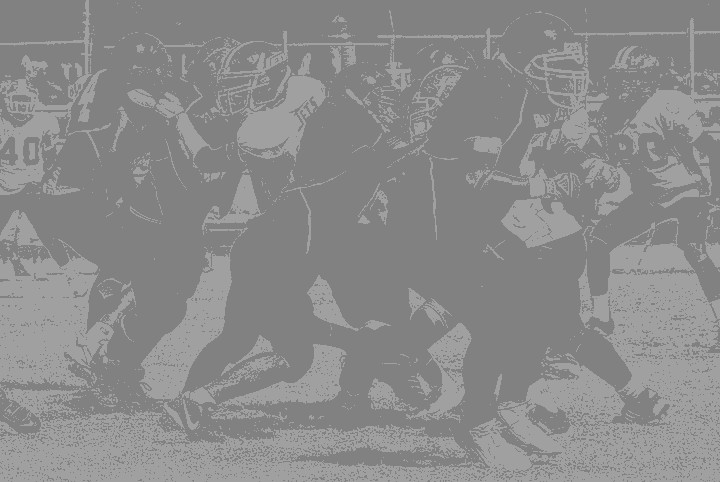
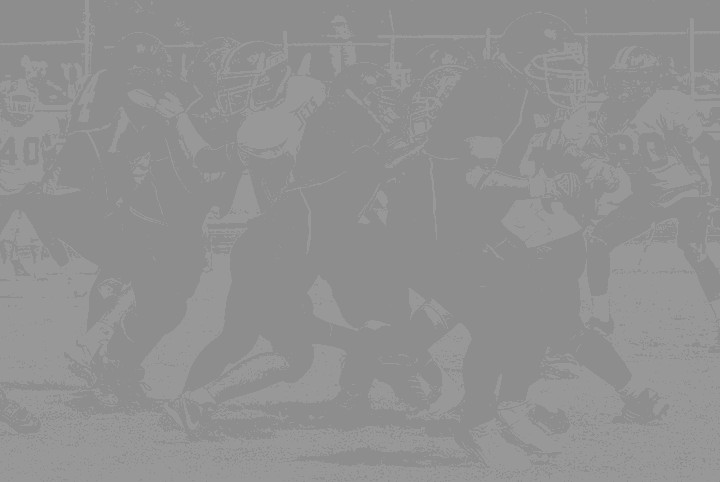
fixed contrast

Changed region(s): [[0.3361, 0.7469, 0.3667, 0.778]]

diff --git a/contrast_brightness_inversion_threshold/Colors.java b/contrast_brightness_inversion_threshold/Colors.java
@@ -9,6 +9,7 @@ class Colors {
 	float brightness_red, brightness_green, brightness_blue;
 	float inversion_red, inversion_green, inversion_blue;
 	float grayscale_red, grayscale_green, grayscale_blue;
+	//float contrast_correction_factor;
 	int threshold_red, threshold_green, threshold_blue;
 	int rgb_threshold;
 	int red, green, blue;
@@ -33,7 +34,8 @@ class Colors {
 	}
 
 	public static float contrastCalculation(int color_value, float contrast_rand) {
-		return color_value * contrast_rand;
+		float contrast_correction_factor = (259 * (contrast_rand + 255)) / (255 * (259 - contrast_rand));
+		return contrast_correction_factor * (color_value - 128) + 128;
 	}
 
 	public static float brightnessCalculator(int color_value, float brightness_rand) {
